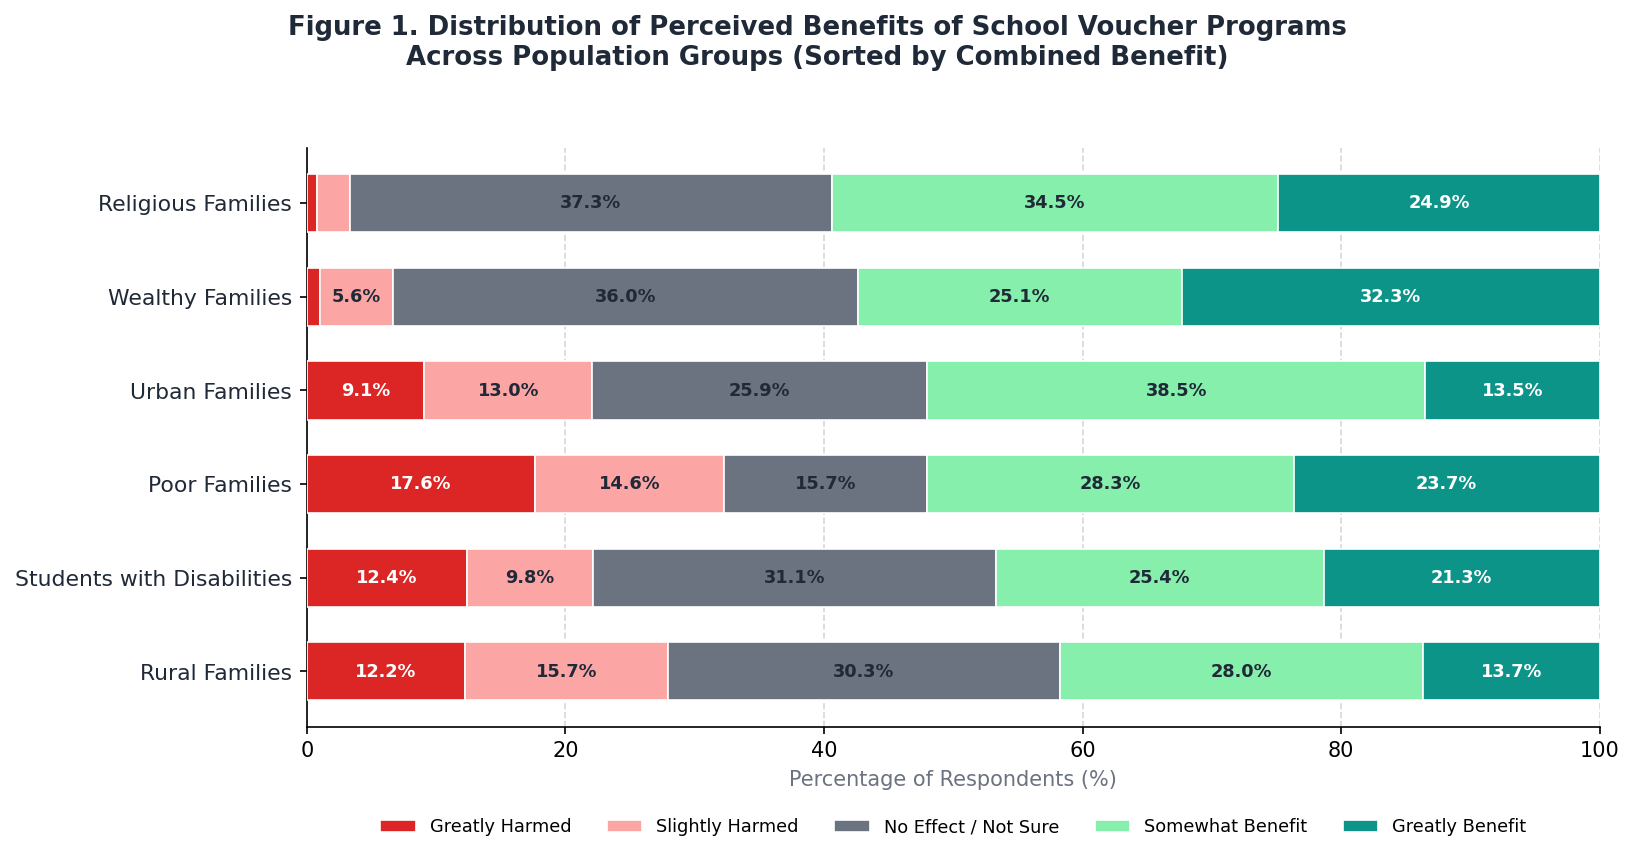
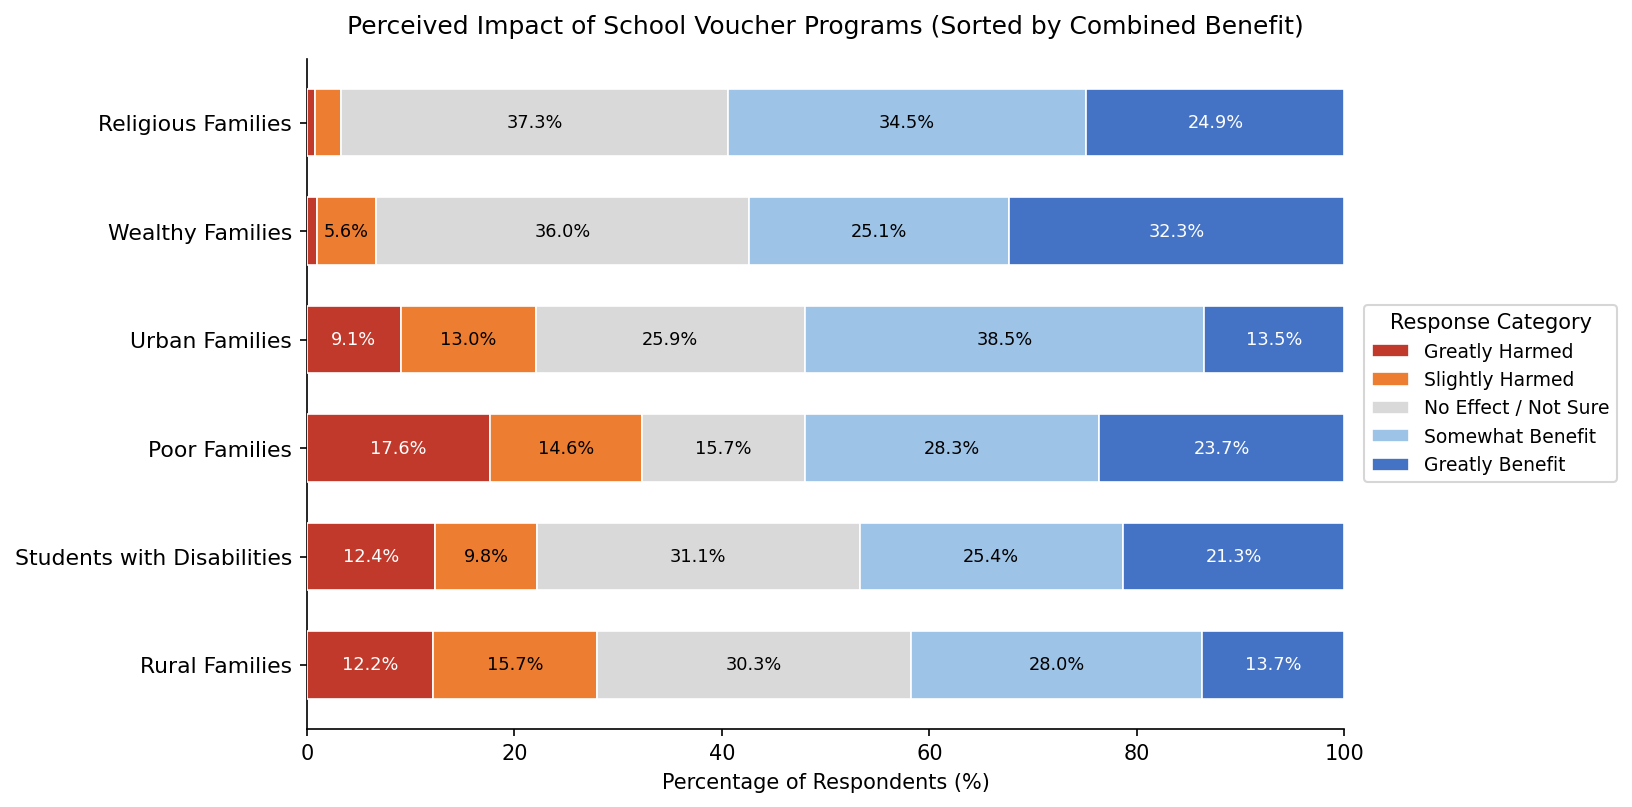
Match Figure 1 palette to manuscript, redesign Figure 2 as faceted small multiples
Figure 1: switched to the red/orange/gray/light-blue/dark-blue palette already
used in the manuscript's version of this chart.
Figure 2: replaced the single 18-estimate dot-whisker plot (dodged, color-coded
legend) with three panels, one per predictor, with outcomes as directly-labeled
sorted rows and non-significant estimates grayed out.

diff --git a/Dr. Jason Giersch - Voucher/manuscript_figures_update/manuscript_figures.py b/Dr. Jason Giersch - Voucher/manuscript_figures_update/manuscript_figures.py
@@ -68,11 +68,14 @@ for col, _ in benefit_cols:
 
 # ═══════════════════════════════════════════════════════════
 # FIGURE 1 — SORTED 100%-STACKED HORIZONTAL BAR
+# Palette/style matches the version already in the manuscript (kept as-is
+# per author preference): red / orange / gray / light-blue / dark-blue.
 # ═══════════════════════════════════════════════════════════
 effect_order = ['They are greatly harmed', 'They are slightly harmed',
                 'No effect or not sure', 'They somewhat benefit', 'They greatly benefit']
 seg_labels = ['Greatly Harmed', 'Slightly Harmed', 'No Effect / Not Sure', 'Somewhat Benefit', 'Greatly Benefit']
-seg_colors = [RED, '#FCA5A5', GRAY, '#86EFAC', TEAL]
+seg_colors = ['#C0392B', '#ED7D31', '#D9D9D9', '#9DC3E6', '#4472C4']
+seg_text_colors = ['white', 'black', 'black', 'black', 'white']
 
 rows = []
 for col, label in benefit_cols:
@@ -94,21 +97,20 @@ for i, (seg_label, color) in enumerate(zip(seg_labels, seg_colors)):
     bars = ax.barh(y_pos, vals, left=left, color=color, edgecolor='white',
                     linewidth=0.8, height=0.62, zorder=3, label=seg_label)
     for y, v, l in zip(y_pos, vals, left):
-        if v > 4:
+        if v > 3:
             ax.text(l + v / 2, y, f'{v:.1f}%', ha='center', va='center',
-                    fontsize=8.5, color='white' if color in (RED, TEAL) else DARK, fontweight='bold')
+                    fontsize=8.5, color=seg_text_colors[i])
     left += vals
 
 ax.set_yticks(y_pos)
-ax.set_yticklabels([r['label'] for r in rows], fontsize=10.5, color=DARK)
-ax.set_xlabel('Percentage of Respondents (%)', fontsize=10, color=GRAY)
+ax.set_yticklabels([r['label'] for r in rows], fontsize=10.5, color='black')
+ax.set_xlabel('Percentage of Respondents (%)', fontsize=10, color='black')
 ax.set_xlim(0, 100)
-ax.xaxis.grid(True, linestyle='--', alpha=0.5, zorder=0)
-ax.set_axisbelow(True)
+ax.set_title('Perceived Impact of School Voucher Programs (Sorted by Combined Benefit)',
+             fontsize=12, color='black', pad=12)
 ax.spines[['top', 'right']].set_visible(False)
-fig1.suptitle('Figure 1. Distribution of Perceived Benefits of School Voucher Programs\nAcross Population Groups (Sorted by Combined Benefit)',
-              fontsize=12.5, fontweight='bold', color=DARK, y=1.04)
-ax.legend(loc='upper center', bbox_to_anchor=(0.5, -0.13), ncol=5, fontsize=8.5, frameon=False)
+ax.legend(title='Response Category', loc='center left', bbox_to_anchor=(1.01, 0.5),
+          fontsize=9, frameon=True, edgecolor='#CCCCCC')
 
 fig1.tight_layout()
 fig1.savefig(os.path.join(script_dir, 'fig_manuscript_1_perceived_benefits.png'), dpi=150, bbox_inches='tight')
@@ -116,16 +118,18 @@ plt.close(fig1)
 print('Figure 1 (sorted stacked bar) saved.')
 
 # ═══════════════════════════════════════════════════════════
-# FIGURE 2 — REGRESSION COEFFICIENTS (FOREST PLOT), TABLE 3 MODELS
+# FIGURE 2 — REGRESSION COEFFICIENTS, TABLE 3 MODELS
+# Redesigned as three small-multiple panels (one per predictor) with
+# outcomes as directly-labeled, sorted rows instead of a single plot with
+# an 18-way dodge and a color-matched legend — removes the need to
+# cross-reference colors against a legend to read any one estimate.
 # ═══════════════════════════════════════════════════════════
 predictors = ['VKnow_n', 'Vsupport_n', 'Ideology_n']
-predictor_labels = ['VKnow', 'Vsupport', 'Ideology']  # top → bottom, matches manuscript figure
+predictor_titles = {'VKnow_n': 'Voucher Knowledge', 'Vsupport_n': 'Voucher Support', 'Ideology_n': 'Ideology (Conservative)'}
 
 outcome_order = ['VPoor_n', 'VWealthy_n', 'VReligious_n', 'VUrban_n', 'VRural_n', 'Vswd_n']
-outcome_labels = {'VPoor_n': 'poor', 'VWealthy_n': 'wealthy', 'VReligious_n': 'religious',
-                   'VUrban_n': 'urban', 'VRural_n': 'rural', 'Vswd_n': 'swd'}
-outcome_colors = {'VPoor_n': '#DC2626', 'VWealthy_n': '#D97706', 'VReligious_n': '#7C3AED',
-                   'VUrban_n': '#2563EB', 'VRural_n': '#0D9488', 'Vswd_n': '#DB2777'}
+outcome_labels = {'VPoor_n': 'Poor families', 'VWealthy_n': 'Wealthy families', 'VReligious_n': 'Religious families',
+                   'VUrban_n': 'Urban families', 'VRural_n': 'Rural families', 'Vswd_n': 'Students with disabilities'}
 
 results = {}
 for oc in outcome_order:
@@ -134,43 +138,40 @@ for oc in outcome_order:
     y = sub[oc]
     model = sm.OLS(y, X).fit()
     ci = model.conf_int(alpha=0.05)
-    results[oc] = {
-        'coef': model.params,
-        'lo': ci[0],
-        'hi': ci[1],
-        'n': len(sub),
-        'r2': model.rsquared,
-    }
+    results[oc] = {'coef': model.params, 'lo': ci[0], 'hi': ci[1], 'n': len(sub), 'r2': model.rsquared}
     print(f"{oc}: n={len(sub)}, R2={model.rsquared:.3f}, coefs={model.params.round(3).to_dict()}")
 
-fig2, ax2 = plt.subplots(figsize=(9, 5.5))
+DOT = '#2563EB'
+xmin = min(results[oc]['lo'][p] for oc in outcome_order for p in predictors) - 0.05
+xmax = max(results[oc]['hi'][p] for oc in outcome_order for p in predictors) + 0.05
 
-n_outcomes = len(outcome_order)
-dodge = np.linspace(-0.28, 0.28, n_outcomes)
+fig2, axes2 = plt.subplots(1, 3, figsize=(13, 4.2), sharex=True)
 
-for row_idx, pred in enumerate(predictors):
-    base_y = len(predictors) - 1 - row_idx  # VKnow on top
-    for j, oc in enumerate(outcome_order):
+for ax, pred in zip(axes2, predictors):
+    # sort outcomes by coefficient size, largest (most positive) at top
+    ordered = sorted(outcome_order, key=lambda oc: results[oc]['coef'][pred])
+    ys = range(len(ordered))
+    for y, oc in zip(ys, ordered):
         r = results[oc]
-        y = base_y + dodge[j]
-        coef = r['coef'][pred]
-        lo, hi = r['lo'][pred], r['hi'][pred]
-        ax2.plot([lo, hi], [y, y], color=outcome_colors[oc], linewidth=1.6, zorder=2)
-        ax2.scatter([coef], [y], color=outcome_colors[oc], s=34, zorder=3,
-                    label=outcome_labels[oc] if row_idx == 0 else None, edgecolor='white', linewidth=0.5)
+        coef, lo, hi = r['coef'][pred], r['lo'][pred], r['hi'][pred]
+        sig = lo > 0 or hi < 0
+        color = DOT if sig else '#9CA3AF'
+        ax.plot([lo, hi], [y, y], color=color, linewidth=1.6, zorder=2, alpha=1 if sig else 0.6)
+        ax.scatter([coef], [y], color=color, s=42, zorder=3, edgecolor='white', linewidth=0.6)
+    ax.set_yticks(list(ys))
+    ax.set_yticklabels([outcome_labels[oc] for oc in ordered], fontsize=9.5, color='black')
+    ax.axvline(0, color='black', linestyle='--', linewidth=1, zorder=1)
+    ax.set_xlim(xmin, xmax)
+    ax.set_title(predictor_titles[pred], fontsize=11, fontweight='bold', color='black', pad=8)
+    ax.xaxis.grid(True, linestyle='--', alpha=0.4, zorder=0)
+    ax.set_axisbelow(True)
+    ax.spines[['top', 'right']].set_visible(False)
 
-ax2.axvline(0, color=DARK, linestyle='--', linewidth=1, zorder=1)
-ax2.set_yticks(range(len(predictors)))
-ax2.set_yticklabels(predictor_labels[::-1], fontsize=11, color=DARK)
-ax2.set_xlabel('Unstandardized regression coefficient (95% CI)', fontsize=9.5, color=GRAY)
-ax2.xaxis.grid(True, linestyle='--', alpha=0.5, zorder=0)
-ax2.set_axisbelow(True)
-ax2.spines[['top', 'right']].set_visible(False)
-fig2.suptitle('Figure 2. Estimated Regression Coefficients Predicting\nPerceived Beneficiaries of School Voucher Programs',
-              fontsize=12.5, fontweight='bold', color=DARK, y=1.03)
-ax2.legend(loc='center left', bbox_to_anchor=(1.01, 0.5), fontsize=9, frameon=False, title='Outcome')
+fig2.supxlabel('Unstandardized regression coefficient (95% CI)  •  gray = not significant at p<.05', fontsize=9, color='#4B5563')
+fig2.suptitle('Figure 2. Estimated Regression Coefficients Predicting Perceived Beneficiaries\nof School Voucher Programs, by Predictor',
+              fontsize=13, fontweight='bold', color='black', y=1.06)
 
 fig2.tight_layout()
 fig2.savefig(os.path.join(script_dir, 'fig_manuscript_2_beneficiary_coefficients.png'), dpi=150, bbox_inches='tight')
 plt.close(fig2)
-print('Figure 2 (coefficient forest plot) saved.')
+print('Figure 2 (faceted coefficient plot) saved.')

diff --git a/Dr. Jason Giersch - Voucher/manuscript_figures_update/README.md b/Dr. Jason Giersch - Voucher/manuscript_figures_update/README.md
@@ -6,8 +6,11 @@ scripted in `../figures` or `../scripts`:
 
 - `manuscript_figures.py` — generates `fig_manuscript_1_perceived_benefits.png`
   (Figure 1: sorted, single 100%-stacked bar, matching the manuscript caption
-  "Sorted by Combined Benefit") and `fig_manuscript_2_beneficiary_coefficients.png`
-  (Figure 2: forest plot of the six Table 3 regression models).
+  "Sorted by Combined Benefit"; palette/style matches the version already in
+  the draft) and `fig_manuscript_2_beneficiary_coefficients.png` (Figure 2:
+  the six Table 3 regression models, redesigned as three small-multiple
+  panels — one per predictor, outcomes as directly-labeled sorted rows —
+  instead of one plot with an 18-way dodge and a color-matched legend).
 - `table4_framing_regression.py` — bivariate + controlled OLS models behind
   Table 4 (equity vs. specialty/efficiency framing effects); output in
   `table4_results.txt`.
